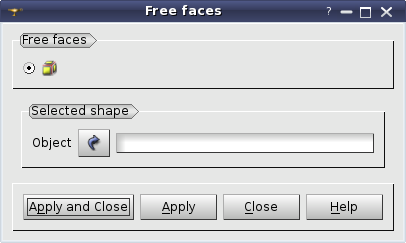
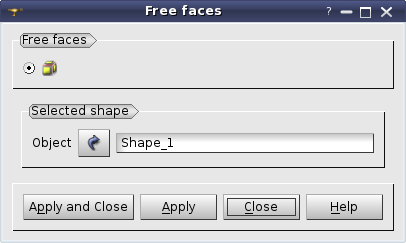
Change in name generation + behavior of apply buttons

diff --git a/src/GEOMGUI/GEOM_msg_en.ts b/src/GEOMGUI/GEOM_msg_en.ts
@@ -838,7 +838,7 @@ Please, select face, shell or solid and try again</translation>
     </message>
     <message>
         <source>GEOM_FREE_FACES_NAME</source>
-        <translation>Free_face_%1</translation>
+        <translation>Free_face</translation>
     </message>
     <message>
         <source>GEOM_FREE_FACES_TITLE</source>

diff --git a/src/RepairGUI/RepairGUI_FreeFacesDlg.h b/src/RepairGUI/RepairGUI_FreeFacesDlg.h
@@ -50,8 +50,7 @@ protected:
   virtual GEOM::GEOM_IOperations_ptr createOperation();
   virtual bool                       isValid( QString& );
   virtual bool                       execute( ObjectList& );
-  virtual GEOM::GEOM_Object_ptr         getFather (GEOM::GEOM_Object_ptr);
-  virtual QString                       getNewObjectName (int CurrObj = -1) const;
+  virtual GEOM::GEOM_Object_ptr      getFather (GEOM::GEOM_Object_ptr);
 
 private:
   void                               Init();
